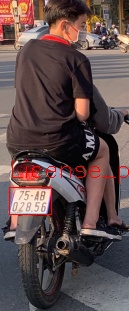
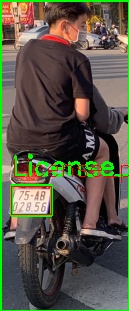
Update code

Changed region(s): [[0.0, 0.0, 1.0, 1.0]]

diff --git a/DetectImage.py b/DetectImage.py
@@ -1,121 +1,150 @@
-import os
 import cv2
+import os
+os.environ["KMP_DUPLICATE_LIB_OK"] = "TRUE"
 from ultralytics import YOLO
+from datetime import datetime
 import easyocr
+import uuid
 
-# Initialize EasyOCR reader and YOLO models
-reader = easyocr.Reader(['en'])
+# Initialize EasyOCR reader
+reader = easyocr.Reader(['en'])  # You can specify multiple languages if needed
+
+def license_complies_format(text):
+    # Implement your logic to check if the license plate text complies with the desired format
+    return True
+
+def format_license(text):
+    # Implement your logic to format the license plate text
+    return text
+
+def read_license_plate(license_plate_crop):
+    """
+    Read the license plate text from the given cropped image.
+
+    Args:
+        license_plate_crop (PIL.Image.Image): Cropped image containing the license plate.
+
+    Returns:
+        tuple: Tuple containing the formatted license plate text and its confidence score.
+    """
+    detections = reader.readtext(license_plate_crop)
+
+    for detection in detections:
+        bbox, text, score = detection
+
+        text = text.upper().replace(' ', '')
+
+        if license_complies_format(text):
+            return format_license(text), score
+
+    return None, None
+
+# Load the YOLO models
+rider_model = YOLO("helmet_detector2.pt")  # Model for detecting helmets
 helmet_model = YOLO("helmet_detector.pt")  # Model for detecting helmets
-license_plate_model = YOLO("license_plate_detector.pt")  # Model for detecting license plates
-person_model = YOLO("yolov8n.pt")  # Model to detect people (for getting full person and bike)
 
 # Output folder for saved images
 output_folder = "output_images"
 os.makedirs(output_folder, exist_ok=True)
 
-def extract_license_text(crop_img):
-    """
-    Extracts text from the cropped license plate image using EasyOCR.
-    """
-    detections = reader.readtext(crop_img)
-    if not detections:
-        print("No text detected in the license plate region.")
-        return None
-
-    for bbox, text, score in detections:
-        text = text.upper().replace(" ", "")
-        print(f"Detected text: {text} with score {score}")
-        if len(text) >= 5:  # Example condition for a valid license plate format
-            return text
-    return None
-
 # Load the target image
-image_path = "test6.jpg"  # Replace with the path to your image
+image_path = "test5.jpg"  # Replace with the path to your image
 frame = cv2.imread(image_path)
 
 # Check if the image was loaded successfully
 if frame is None:
     print(f"Error: Image at {image_path} could not be loaded.")
 else:
-    # Detect people in the image using the person model
-    person_results = person_model(frame)
-    save_with_license = False  # Flag to check if a no-helmet person is found
-    license_text_for_save = "having_helmet"  # Default name if everyone has helmets
+    # Detect riders in the image
+    max_width = 1080
+    max_height = 680
+    height, width = frame.shape[:2]
+    if width > max_width or height > max_height:
+        scaling_factor = min(max_width / width, max_height / height)
+        frame = cv2.resize(frame, None, fx=scaling_factor, fy=scaling_factor, interpolation=cv2.INTER_AREA)
+    
+    detection_results = rider_model(frame)
+    rider_boxes = []
 
-    for result in person_results:
+    for result in detection_results:
         for i in range(len(result.boxes)):
             box = result.boxes.xyxy[i]
             cls = int(result.boxes.cls[i])
             confidence = result.boxes.conf[i]
 
-            if cls == 0 and confidence > 0.5:  # Class 0: Person
-                x1, y1, x2, y2 = map(int, box)
+            # Draw bounding box and label for all detected objects
+            x1, y1, x2, y2 = map(int, box)
+            label = f"{rider_model.names[cls]} {confidence:.2f}"
+            cv2.rectangle(frame, (x1, y1), (x2, y2), (0, 255, 0), 2)
+            cv2.putText(frame, label, (x1, y1 - 10), cv2.FONT_HERSHEY_SIMPLEX, 0.9, (0, 255, 0), 2)
+
+            if confidence > 0.1 and cls == 2:  # Class 2: Motorbike Rider
+                rider_boxes.append((x1, y1, x2, y2))
+
+    print(f"Number of riders detected: {len(rider_boxes)}")
+    print(f"Rider boxes: {rider_boxes}")
+
+    # Dictionary to store rider boxes and their corresponding helmet and license plate
+    rider_info = {}
+
+    for idx, rider_box in enumerate(rider_boxes):
+        print(f"Processing Rider --------- {idx}...")
+        
+        x1, y1, x2, y2 = rider_box
+        rider_crop = frame[y1:y2, x1:x2]
+
+        detection_results = rider_model(rider_crop)
+        helmet_detection_results = helmet_model(rider_crop)
+        
+        helmet_found = False
+        license_plate = None
+
+        for result in detection_results:
+            for i in range(len(result.boxes)):
+                box = result.boxes.xyxy[i]
+                cls = int(result.boxes.cls[i])
+                confidence = result.boxes.conf[i]
+
+                if confidence > 0.1:
+                    bx1, by1, bx2, by2 = map(int, box)
+                    bx1 += x1
+                    by1 += y1
+                    bx2 += x1
+                    by2 += y1
+
+                    if cls == 1:  # Class 1: Helmet
+                        helmet_found = True
+                    elif cls == 0:  # Class 0: License Plate
+                        license_plate = (bx1, by1, bx2, by2)
+                        
+        # Check again with another model
+        for result in helmet_detection_results:
+            for i in range(len(result.boxes)):
+                box = result.boxes.xyxy[i]
+                cls = int(result.boxes.cls[i])
+                confidence = result.boxes.conf[i]
+
+                if confidence > 0.1 and cls == 0:
+                    helmet_found = True
+        
+        if license_plate is not None:
+            bx1, by1, bx2, by2 = license_plate
+            license_plate_crop = frame[by1:by2, bx1:bx2]
+
+            rider_info[idx] = {
+                "helmet_found": helmet_found,
+                "license_plate": license_plate,
+                "rider_box": rider_box
+            }
+            
+            if not helmet_found:
+                image_filename = os.path.join(output_folder, f"Rider_{idx}.jpg")
+                print(f"Rider {idx} - Helmet Found: {helmet_found}")
                 
-                # Expand the box horizontally to capture the bike and rider
-                padding_x = 30  # Increase the box size by 10 pixels on each side
-                padding_y = 180  # Increase the box size by 10 pixels on each side
-
-                x1 = max(0, x1 - padding_x)
-                y1 = max(0, y1 - padding_x)
-                x2 = min(frame.shape[1], x2 + padding_y)
-                y2 = min(frame.shape[0], y2 + padding_y)
+                # Save the image with the bounding boxes
+                cv2.imwrite(image_filename, rider_crop)
                 
-                # Crop the region with the expanded area
-                person_roi = frame[y1:y2, x1:x2]
-                print(f"Detected person with expanded region: {x1, y1, x2, y2}")
-
-                # Draw a bounding box around the person
-                cv2.rectangle(frame, (x1, y1), (x2, y2), (105, 105, 105), 1)
-                cv2.putText(frame, "Person", (x1, y1 - 10), cv2.FONT_HERSHEY_SIMPLEX, 0.6, (105, 105, 105), 2)
-
-                # Run helmet detection within the expanded region
-                helmet_results = helmet_model(person_roi)
-                
-                for helmet_result in helmet_results:
-                    for j in range(len(helmet_result.boxes)):
-                        helmet_box = helmet_result.boxes.xyxy[j]
-                        helmet_cls = int(helmet_result.boxes.cls[j])
-                        helmet_conf = helmet_result.boxes.conf[j]
-
-                        hx1, hy1, hx2, hy2 = map(int, helmet_box)
-                        label = "No-Helmet" if helmet_cls == 1 else "Helmet"
-
-                        # Run license plate detection within the expanded region if no helmet
-                        if helmet_cls == 0:  # No helmet detected
-                            cv2.rectangle(frame, (x1 + hx1, y1 + hy1), (x1 + hx2, y1 + hy2), (0, 255, 0), 2)  # Green color in BGR
-                            cv2.putText(frame, label, (x1 + hx1, y1 + hy1 - 10), cv2.FONT_HERSHEY_SIMPLEX, 0.9, (0, 255, 0), 2)
-
-                                                     
-                            save_with_license = True  # We should save based on license plate
-                            license_plate_results = license_plate_model(person_roi)
-
-                            for lp_result in license_plate_results:
-                                if len(lp_result.boxes) > 0:
-                                    # Use the first detected license plate in the person's ROI
-                                    lp_box = lp_result.boxes.xyxy[0]
-                                    lp_x1, lp_y1, lp_x2, lp_y2 = map(int, lp_box)
-
-                                    # Draw bounding box for the detected license plate
-                                    cv2.rectangle(frame, (x1 + lp_x1, y1 + lp_y1), (x1 + lp_x2, y1 + lp_y2), (220,20,60), 2)
-                                    cv2.putText(frame, "License Plate", (x1 + lp_x1, y1 + lp_y1 - 10), cv2.FONT_HERSHEY_SIMPLEX, 0.9, (220,20,60), 2)
-
-                                    # Extract license plate region and read text
-                                    license_plate_roi = person_roi[lp_y1:lp_y2, lp_x1:lp_x2]
-                                    license_text = extract_license_text(license_plate_roi)
-
-                                    if license_text:
-                                        license_text_for_save = license_text  # Update to use license plate text
-
-                        if helmet_cls == 1: 
-                            cv2.rectangle(frame, (x1 + hx1, y1 + hy1), (x1 + hx2, y1 + hy2), (255, 0, 0), 2)
-                            cv2.putText(frame, label, (x1 + hx1, y1 + hy1 - 10), cv2.FONT_HERSHEY_SIMPLEX, 0.9, (255, 0, 0), 2)
-
-    # Show the frame with all drawn boxes for debugging
-    cv2.imshow("Annotated Image", frame)
-    cv2.waitKey(0)  # Wait until a key is pressed
-    cv2.destroyAllWindows()
-
-    # Save the image with the appropriate filename
-    image_filename = os.path.join(output_folder, f"{license_text_for_save}.jpg")
-    cv2.imwrite(image_filename, frame)
-    print(f"Saved image to {image_filename}")
+                # Display the image with the bounding boxes
+                cv2.imshow(f"License Plate of Rider {idx} without Helmet", rider_crop)
+                cv2.waitKey(0)  # Wait until a key is pressed
+                cv2.destroyAllWindows()
